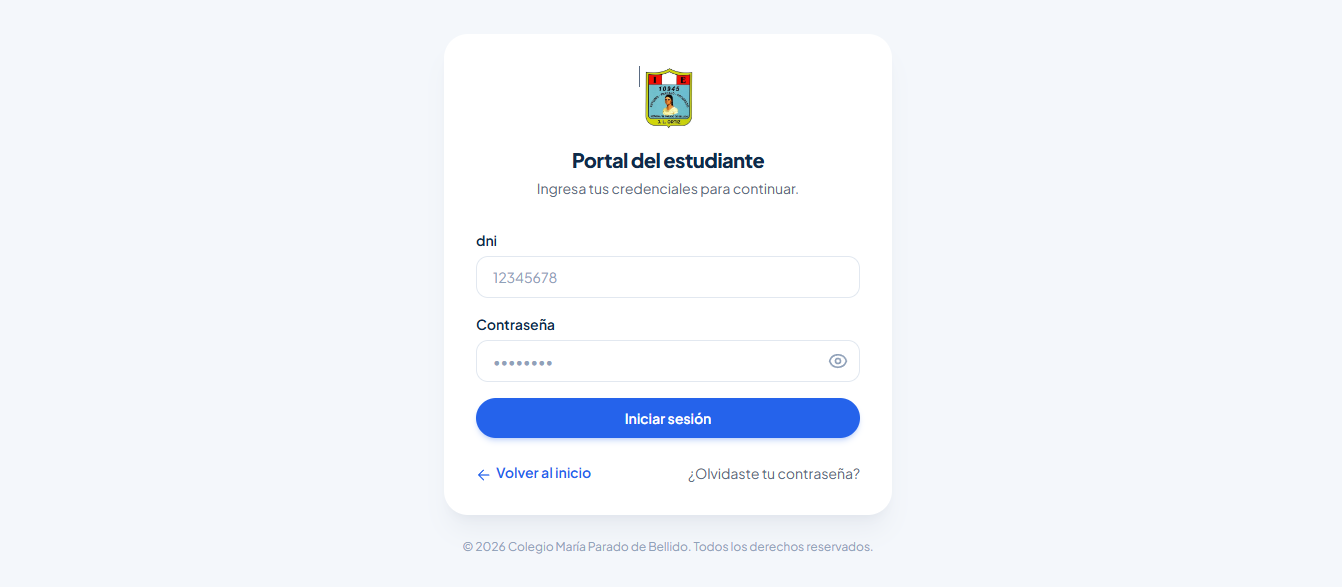
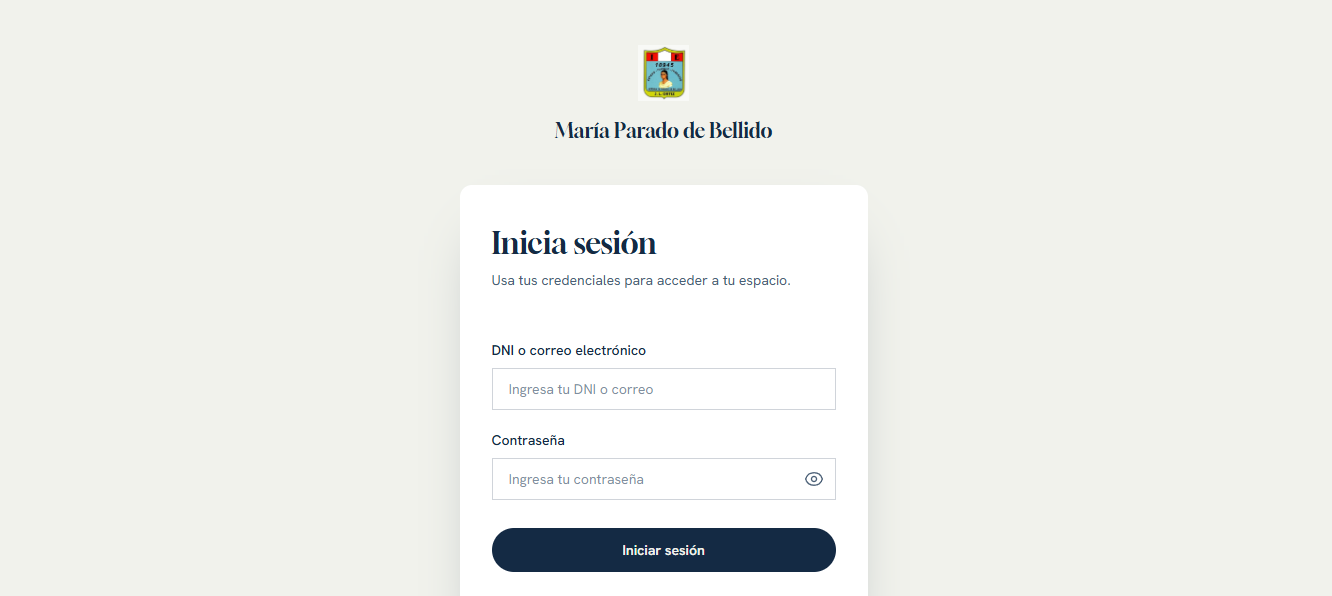
Se agregaron fotos al proyecto bellidoMap

Changed region(s): [[0.3386, 0.368, 0.6772, 0.9813], [0.4002, 0.0613, 0.5848, 0.3373]]

diff --git a/src/data/projects.ts b/src/data/projects.ts
@@ -40,17 +40,73 @@ export interface Project {
 
 export const projects: Project[] = [
   
+
+   // ------------------------------------------
+  // PROYECTO 4: Pet'Salud
+  // ------------------------------------------
+ 
+   {
+    id: 1,
+    title: "Pet'Salud",
+    description:
+      "Sistema de gestión veterinaria que integra un panel administrativo para la gestión de citas, clientes e historial clínico, junto con una landing page pública orientada a la captación de clientes.",
+    longDescription:
+      "Aplicación web para administrar una clínica veterinaria. Permite registrar a los clientes y sus mascotas (con foto, especie, raza, edad, sexo y peso), agendar citas por veterinario y llevar el historial clínico de cada consulta (diagnóstico, tratamiento y observaciones). Para evitar dobles reservas, cada cita es única por veterinario, fecha y hora. Se construyó como una aplicación MVC con vistas en Thymeleaf y seguridad por roles: el administrador gestiona el panel y los usuarios, el veterinario ve su agenda y la recepción administra las citas. Incluye una lading page para todo el publico interesado y un login que solo personal autorizado puede acceder a el.",
+    image: "/images/gestion-veterinaria/landing.webp",
+    gallery: [
+      "/images/gestion-veterinaria/landing.webp",
+      "/images/gestion-veterinaria/login.webp",
+      "/images/gestion-veterinaria/dashboard.webp",
+    ],
+    tech: ["Spring Boot", "Thymeleaf","Mysql","Docker"],
+    competencies: [
+      {
+        tech: "Spring Boot",
+        details: [
+          "Arquitectura MVC con controladores, servicios y repositorios.",
+          "Inicio de sesión con formulario y contraseñas cifradas con BCrypt.",
+          "Modelo del dominio: cliente, mascota, cita, historial clínico y veterinario.",
+          "Relaciones OneToMany y OneToOne con borrado en cascada.",
+          "Integración de la librería de JavaScript FullCalendar en el panel de administración para la gestión visual de citas."
+        ],
+      },
+      {
+        tech: "Thymeleaf",
+        details: [
+          "Vistas server-side con una plantilla base y fragments reutilizables (menú y layout).",
+          "Formularios y listados para clientes, mascotas, citas e historial.",
+          "Panel de administración y agenda del veterinario como vistas separadas.",
+        ],
+      },
+    ],
+    highlights: [
+      "Gestión de clientes, mascotas, citas e historial clínico",
+      "Subida de fotos de mascotas con nombre UUID",
+      "Citas únicas por veterinario, fecha y hora (sin dobles reservas)",
+      "Acceso por roles: administrador, veterinario y recepción",
+      "Vistas server-side con Thymeleaf y fragments reutilizables",
+    ],
+    github: "https://github.com/ImanolLeon/PetPeru-gestionVeterinaria",
+    demo: "https://petsalud.imanol.uk/",
+    inProduction: true
+  },
+
   // ------------------------------------------
   // PROYECTO 1: FootGamers
   // ------------------------------------------
+
   {
-    id: 1,
+    id: 2,
     title: "FootGamers",
     description:
       "Plataforma full-stack para gestionar torneos de fútbol 1v1: inscripciones, grupos, llaves de eliminación directa y clasificaciones en tiempo real.",
     longDescription:
       "Sistema completo para organizar torneos de fútbol individual. Los administradores crean torneos con cupo y cantidad de grupos, asignan a los participantes y el sistema arma el calendario; los jugadores se inscriben, confirman resultados y siguen su avance. Lo diseñé e implementé de punta a punta: backend en Spring Boot y frontend en React, con autenticación por JWT y login social.",
-    image: "/placeholder1.svg",
+    image: "/images/footgamers/landing.webp",
+    gallery: [
+      "/images/footgamers/landing.webp",
+     
+    ],
     tech: ["Spring Boot", "React", "Docker"],
     competencies: [
       {
@@ -90,7 +146,7 @@ export const projects: Project[] = [
       "Tests unitarios con JUnit para autenticación y el filtro JWT",
     ],
     github: "https://github.com/ImanolLeon/foot-gamers-backend",
-    demo: "https://github.com/ImanolLeon/foot-gamers-fronted",
+    demo: "https://footgamer.imanol.uk/",
     inDesarrollo:true,
   },
 
@@ -98,16 +154,17 @@ export const projects: Project[] = [
   // PROYECTO 2: BellidoMap
   // ------------------------------------------
   {
-    id: 2,
+    id: 3,
     title: "BellidoMap",
     description:
       "Sistema de gestión escolar full-stack: matrículas, estudiantes, apoderados, grados, secciones y aulas, con autenticación JWT.",
     longDescription:
       "Plataforma completa para administrar la información del Colegio María Parado de Bellido. El personal gestiona grados, secciones, aulas y turnos; registra a los estudiantes junto a sus apoderados y controla el ciclo de matrícula con sus estados (pendiente, realizada, cancelada). Los usuarios ingresan al portal con autenticación por JWT. Desarrollé una arquitectura por capas y una landing del colegio con portal de acceso para estudiantes.",
-     image: "/images/bellido/principal.webp",
+    image: "/images/bellido/landing.webp",
     gallery: [
-      "/images/bellido/principal.webp",
-      "/images/bellido/login.webp", 
+      "/images/bellido/landing.webp",
+      "/images/bellido/login.webp",
+      "/images/bellido/dashboard.webp", 
     ],
     tech: ["Spring Boot", "React", "PostgreSQL"],
     competencies: [
@@ -155,7 +212,7 @@ export const projects: Project[] = [
   // PROYECTO 3: Sistema de Reservas
   // ------------------------------------------
   {
-    id: 3,
+    id: 4,
     title: "Sistema de Reservas ",
     description:
       "Sistema para reservar campos de fútbol con alquiler de balones y camisetas: horarios, estados de reserva, seguridad por roles y permisos.",
@@ -207,52 +264,5 @@ export const projects: Project[] = [
   
   },
 
-  // ------------------------------------------
-  // PROYECTO 4: Pet'Salud
-  // ------------------------------------------
-  {
-    id: 4,
-    title: "Pet'Salud",
-    description:
-      "Sistema de gestión veterinaria que integra un panel administrativo para la gestión de citas, clientes e historial clínico, junto con una landing page pública orientada a la captación de clientes.",
-    longDescription:
-      "Aplicación web para administrar una clínica veterinaria. Permite registrar a los clientes y sus mascotas (con foto, especie, raza, edad, sexo y peso), agendar citas por veterinario y llevar el historial clínico de cada consulta (diagnóstico, tratamiento y observaciones). Para evitar dobles reservas, cada cita es única por veterinario, fecha y hora. Se construyó como una aplicación MVC con vistas en Thymeleaf y seguridad por roles: el administrador gestiona el panel y los usuarios, el veterinario ve su agenda y la recepción administra las citas. Incluye una lading page para todo el publico interesado y un login que solo personal autorizado puede acceder a el.",
-    image: "/images/gestion-veterinaria/landing.webp",
-    gallery: [
-      "/images/gestion-veterinaria/landing.webp",
-      "/images/gestion-veterinaria/login.webp",
-      "/images/gestion-veterinaria/dashboard.webp",
-    ],
-    tech: ["Spring Boot", "Thymeleaf","Mysql","Docker"],
-    competencies: [
-      {
-        tech: "Spring Boot",
-        details: [
-          "Arquitectura MVC con controladores, servicios y repositorios.",
-          "Inicio de sesión con formulario y contraseñas cifradas con BCrypt.",
-          "Modelo del dominio: cliente, mascota, cita, historial clínico y veterinario.",
-          "Relaciones OneToMany y OneToOne con borrado en cascada.",
-          "Integración de la librería de JavaScript FullCalendar en el panel de administración para la gestión visual de citas."
-        ],
-      },
-      {
-        tech: "Thymeleaf",
-        details: [
-          "Vistas server-side con una plantilla base y fragments reutilizables (menú y layout).",
-          "Formularios y listados para clientes, mascotas, citas e historial.",
-          "Panel de administración y agenda del veterinario como vistas separadas.",
-        ],
-      },
-    ],
-    highlights: [
-      "Gestión de clientes, mascotas, citas e historial clínico",
-      "Subida de fotos de mascotas con nombre UUID",
-      "Citas únicas por veterinario, fecha y hora (sin dobles reservas)",
-      "Acceso por roles: administrador, veterinario y recepción",
-      "Vistas server-side con Thymeleaf y fragments reutilizables",
-    ],
-    github: "https://github.com/ImanolLeon/PetPeru-gestionVeterinaria",
-    demo: "https://petsalud.imanol.uk/",
-    inProduction: true
-  },
+ 
 ];
